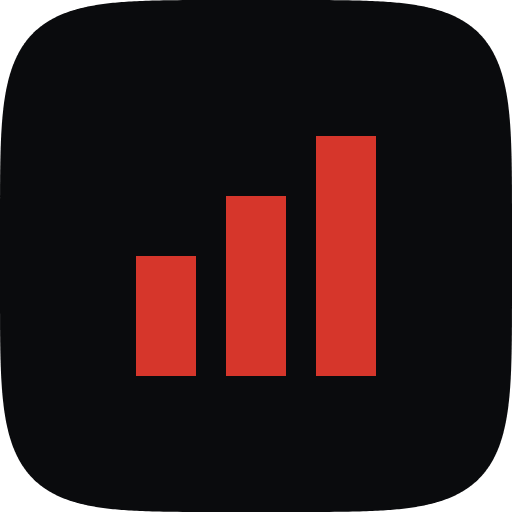
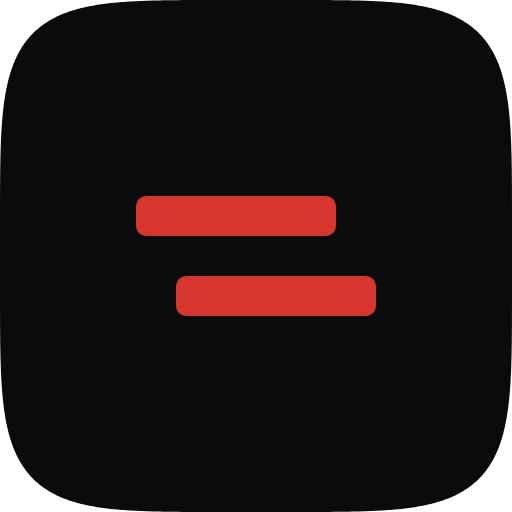
Replace the Staircase mark with the Spread across every brand asset
Two horizontal rounded bars of equal size, offset both across and down,
with the gap between them stepping diagonally. The gap is the mark, so it
is sized by what survives a 16px favicon rather than by what looks best
at 512px.

Geometry, re-derived on the existing 32-unit grid. Bar 20 x 4 at corner
radius 1; upper bar at x=4, lower at x=8, a 4-unit offset; bars at y=10
and y=18, leaving a 4-unit gap; ink spanning x 4..28 and y 10..22,
centred. This keeps the reference's 0.2 offset-to-width ratio and its
roughly quarter-height corner radius. The reference itself, 140 x 28 at
radius 6 on a 256 canvas, maps to 17.5 x 3.5 at radius 0.75 on this grid,
which would put every edge on a half pixel, so the proportions were
snapped to even units instead. The ink box is 24 wide, the same as the
Staircase's, so the header lockup did not need respacing.

Even units alone were not enough. Rendering a 512 icon down to 16 divides
by 32, so a mark unit becomes scale/32 of a pixel: at the display scale
of 10 a 4-unit bar landed on 1.25px and the bars and their gap went soft,
which the first regeneration showed clearly when the shipped .ico's 16px
entry was extracted and magnified. The .ico rasters now render from the
same geometry at scale 16, the smallest multiple of 16 that keeps even
units on whole pixels, which puts the bars and the gap on exactly 2px
each and leaves the mark's own 4-unit inset as the icon's margin. Large
[…]

Changed region(s): [[0.25, 0.25, 0.75, 0.75]]

diff --git a/src/app/page.tsx b/src/app/page.tsx
@@ -37,7 +37,12 @@ export default function BasisPage() {
                 interface face and in a neutral, because a wordmark is
                 identity, not signal. */}
             <div className="flex min-w-0 items-center gap-2">
-              <BasisMark className="h-5 w-5 shrink-0 text-bs-brand" />
+              {/* Sized by its ink, not its box. The mark is wide and short,
+                  24 x 12 inside a 32-unit square, so a square box the height of
+                  the wordmark would leave it visibly undersized beside the
+                  text. 28px puts the bars at roughly the wordmark's cap
+                  height. */}
+              <BasisMark className="h-7 w-7 shrink-0 text-bs-brand" />
               <h1 className="truncate font-semibold text-bs-md text-bs-n9 tracking-tight">Basis</h1>
             </div>
             <ConnectButton showBalance={false} accountStatus="address" chainStatus="icon" />

diff --git a/src/components/BasisMark.tsx b/src/components/BasisMark.tsx
@@ -1,5 +1,6 @@
 /**
- * The Basis mark: three columns of ascending height on a shared baseline.
+ * The Basis mark: two horizontal bars, offset across and down, with the gap
+ * between them stepping diagonally. The gap is the mark.
  *
  * Inlined rather than loaded from /brand/mark.svg because an <img> renders in
  * its own document and cannot inherit currentColor, which is the whole point of
@@ -23,9 +24,8 @@ export default function BasisMark({ className, label }: { className?: string; la
       aria-label={label}
       aria-hidden={label ? undefined : true}
     >
-      <rect x="4" y="16" width="6" height="12" />
-      <rect x="13" y="10" width="6" height="18" />
-      <rect x="22" y="4" width="6" height="24" />
+      <rect x="4" y="10" width="20" height="4" rx="1" />
+      <rect x="8" y="18" width="20" height="4" rx="1" />
     </svg>
   );
 }

diff --git a/CLAUDE.md b/CLAUDE.md
@@ -196,8 +196,10 @@ Neutrals come from one ordered ramp, `--bs-n0` through `--bs-n9`, so two greys
 are either the same decision or visibly different ones. Never introduce a
 one-off grey.
 
-**The mark** is the Staircase: three columns of ascending height on a shared
-baseline. Assets live in `public/brand/` and are generated by
+**The mark** is the Spread: two horizontal bars, offset across and down, with a
+diagonal gap between them. The gap is the point of it, and its size is set by
+what survives a 16px favicon rather than by what looks best at 512px. Assets
+live in `public/brand/` and are generated by
 `scripts/generate-brand.mjs`, which holds the geometry and is the place to
 change it. `mark.svg` and the `BasisMark` component use `currentColor`, so the
 mark takes the brand token rather than a copy of its value; the component is
